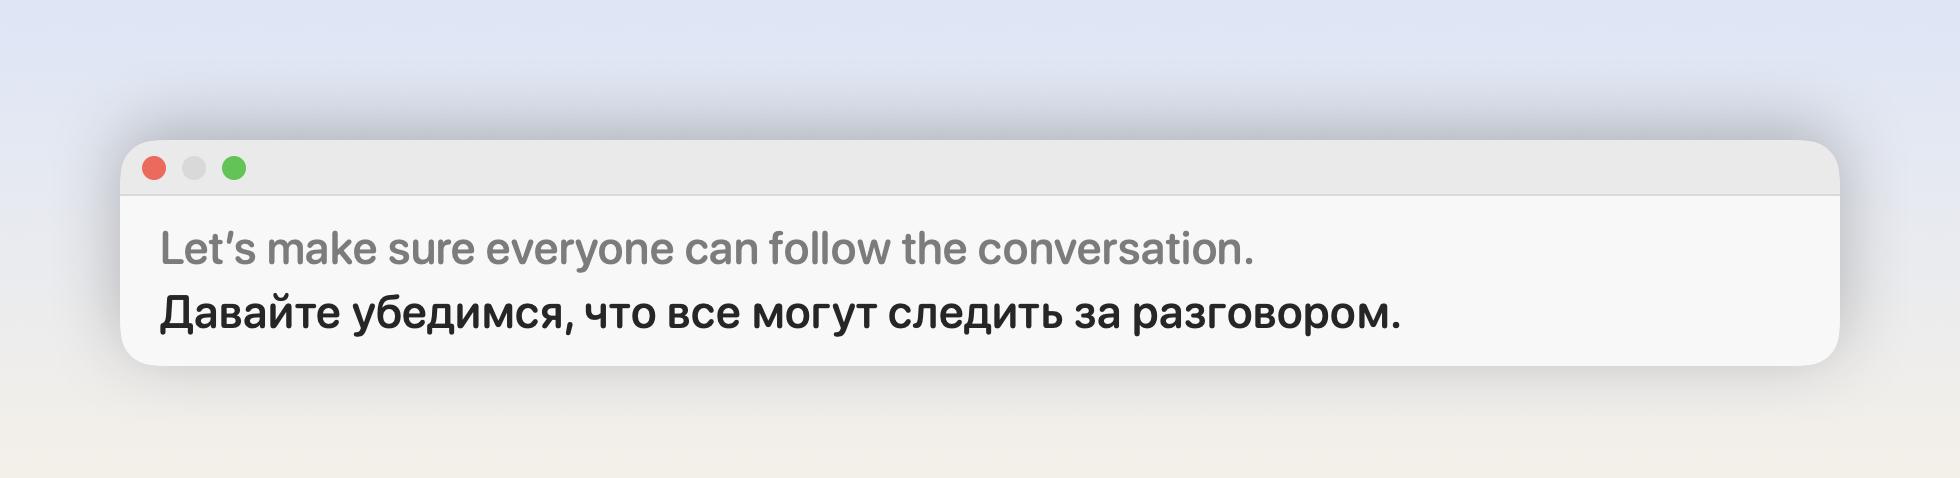
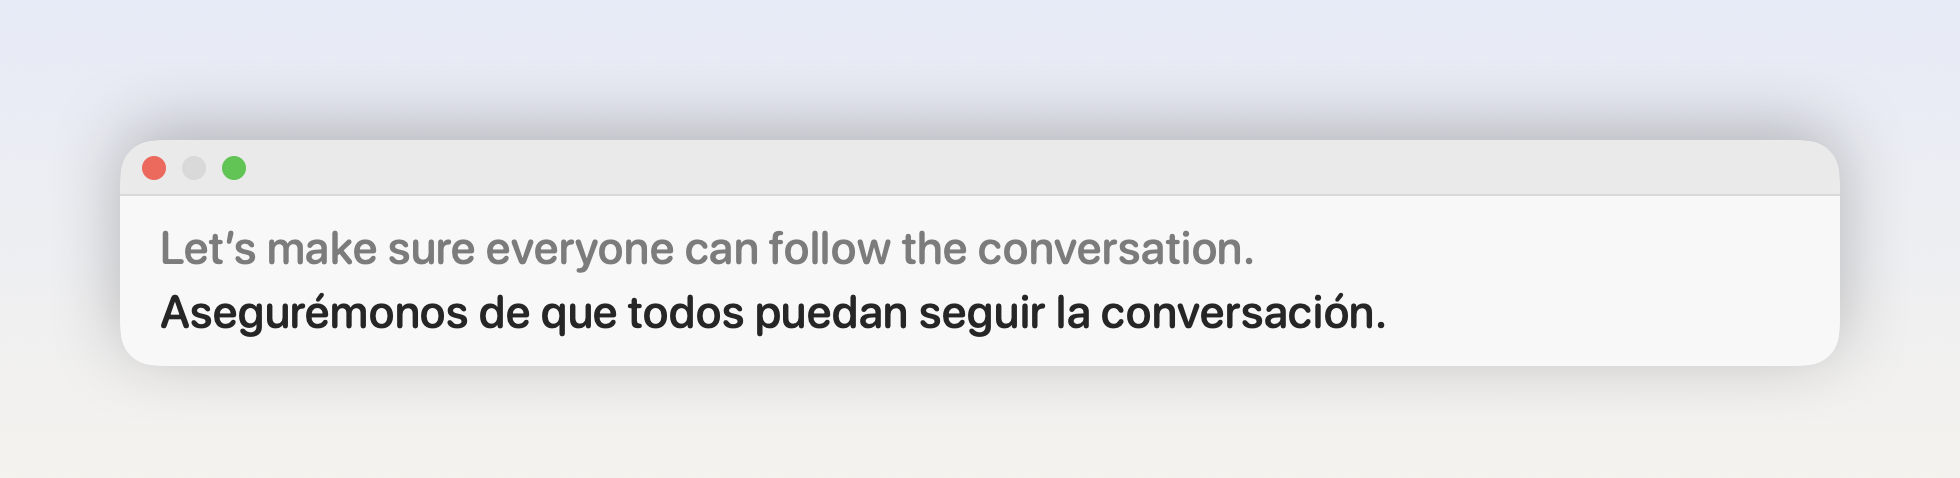
Use Spanish in the repository screenshots
Render the hero, history panel and social preview with Spanish translations while retaining the English source lines and blue branding. Share the preview captions and add a reproducible repository-image export command.

Changed region(s): [[0.0622, 0.6151, 0.7158, 0.7029]]

diff --git a/Sources/BilbyPreview/Preview.swift b/Sources/BilbyPreview/Preview.swift
@@ -6,6 +6,7 @@ import SwiftUI
 
 /// `swift run BilbyPreview` checks the mark at actual menu-bar sizes.
 /// Add `--output <directory>` for light/dark PNGs and every onboarding scene.
+/// Add `--repo-assets` to export just the README and social-preview images.
 @main
 struct Preview {
     @MainActor
@@ -26,6 +27,11 @@ struct Preview {
         let directory = URL(fileURLWithPath: CommandLine.arguments[flag + 1], isDirectory: true)
         try FileManager.default.createDirectory(at: directory, withIntermediateDirectories: true)
         _ = NSApplication.shared
+        if CommandLine.arguments.contains("--repo-assets") {
+            try RepositoryImages.write(to: directory)
+            print("Wrote repository images to \(directory.path)")
+            return
+        }
         try save(MarkSheet(), to: directory.appendingPathComponent("bilby-mark.png"))
         for scheme in [ColorScheme.light, .dark] {
             let appearance = scheme == .light ? "light" : "dark"
@@ -39,10 +45,10 @@ struct Preview {
                 checkAudio: { .granted }, openSettings: {}, startListening: {},
                 loadLanguages: {
                     [
-                        .init(code: "ru", name: "Russian", isInstalled: false),
+                        .init(code: "es", name: "Spanish", isInstalled: false),
                         .init(code: "fr", name: "French", isInstalled: true),
                     ]
-                }
+                }, selectedLanguageCode: "es"
             )
             try snap(model, "welcome")
             model.advance()
@@ -73,39 +79,18 @@ struct Preview {
             model.update(readiness: .preparing(0.4))
             try snap(model, "tryIt-loading")
             model.update(
-                readiness: .failed("Speech recognition needs a one-time download. Connect to the internet and try again."))
+                readiness: .failed(
+                    "Speech recognition needs a one-time download. Connect to the internet and try again."))
             try snap(model, "tryIt-failed")
             model.update(readiness: .ready)
-            model.show(
-                "Let’s make sure everyone can follow the conversation.",
-                "Давайте убедимся, что все могут следить за разговором.")
+            model.show(PreviewCaptions.source, PreviewCaptions.translation)
             try snap(model, "caption")
             model.stopWatching()
         }
         // The history panel's content, with a session's worth of sentences.
         for scheme in [ColorScheme.light, .dark] {
             let appearance = scheme == .light ? "light" : "dark"
-            let model = CaptionModel()
-            var engine = CaptionEngine()
-            let script = [
-                (
-                    "So let's circle back on the runway before we commit to Q3.",
-                    "Итак, давайте вернёмся к запасу денег, прежде чем брать обязательства по третьему кварталу."
-                ),
-                (
-                    "Burn is up eighteen percent quarter over quarter.",
-                    "Расходы выросли на восемнадцать процентов по сравнению с прошлым кварталом."
-                ),
-                ("Two senior hires are pending offer.", "Два старших специалиста ждут оффера."),
-            ]
-            for (source, translation) in script {
-                for event in engine.consume(Utterance(source, isFinal: true)) { model.apply(event) }
-                if let line = model.latest {
-                    for event in engine.resolve(line.id, translation: translation) { model.apply(event) }
-                }
-            }
-            model.apply(.live("And the bridge round term sheet"))
-            model.apply(.draft("И условия промежуточного раунда"))
+            let model = PreviewCaptions.history()
             let view = HistoryView(model: model, perform: { _ in })
                 .frame(width: 380, height: 520)
                 .environment(\.colorScheme, scheme)
@@ -147,7 +132,7 @@ struct Preview {
     }
 
     @MainActor
-    private static func save(_ view: some View, to url: URL) throws {
+    static func save(_ view: some View, to url: URL) throws {
         // ImageRenderer omits AppKit-backed controls such as the language
         // picker. Capture the actual hosting view, including those controls.
         let host = NSHostingView(rootView: view)

diff --git a/Sources/BilbyPreview/RepositoryImages.swift b/Sources/BilbyPreview/RepositoryImages.swift
@@ -1,0 +1,95 @@
+import BilbyCore
+import BilbyUI
+import SwiftUI
+
+/// The same Spanish examples feed both the app previews and repository art,
+/// so regenerating one cannot silently bring back a different language.
+@MainActor
+enum PreviewCaptions {
+    static let source = "Let’s make sure everyone can follow the conversation."
+    static let translation = "Asegurémonos de que todos puedan seguir la conversación."
+
+    static func caption() -> CaptionModel {
+        translated([(source, translation)])
+    }
+
+    static func history() -> CaptionModel {
+        let model = translated([
+            (
+                "So let's circle back on the runway before we commit to Q3.",
+                "Volvamos a revisar cuánto nos durará la caja antes de comprometernos para el tercer trimestre."
+            ),
+            (
+                "Burn is up eighteen percent quarter over quarter.",
+                "El consumo de caja aumentó un dieciocho por ciento respecto al trimestre anterior."
+            ),
+            ("Two senior hires are pending offer.", "Falta enviar las ofertas a dos candidatos sénior."),
+        ])
+        model.apply(.live("And the bridge round term sheet"))
+        model.apply(.draft("Y la hoja de términos de la ronda puente"))
+        return model
+    }
+
+    private static func translated(_ lines: [(String, String)]) -> CaptionModel {
+        let model = CaptionModel()
+        var engine = CaptionEngine()
+        for (source, translation) in lines {
+            for event in engine.consume(Utterance(source, isFinal: true)) { model.apply(event) }
+            if let line = model.latest {
+                for event in engine.resolve(line.id, translation: translation) { model.apply(event) }
+            }
+        }
+        return model
+    }
+}
+
+/// Repository images are renders of the real caption views and app icon.
+/// Keep their framing here so the next text change is reproducible too.
+@MainActor
+enum RepositoryImages {
+    static func write(to directory: URL) throws {
+        for scheme in [ColorScheme.light, .dark] {
+            let appearance = scheme == .light ? "light" : "dark"
+            let hero = CaptionBar(model: PreviewCaptions.caption(), perform: { _ in })
+                .frame(width: 860)
+                .offset(y: 7)
+                .frame(width: 980, height: 239)
+                .background(backdrop(scheme))
+                .environment(\.colorScheme, scheme)
+            try Preview.save(hero, to: directory.appendingPathComponent("hero-\(appearance).png"))
+
+            let history = HistoryView(model: PreviewCaptions.history(), perform: { _ in })
+                .frame(width: 380, height: 520)
+                .environment(\.colorScheme, scheme)
+            try Preview.save(history, to: directory.appendingPathComponent("history-\(appearance).png"))
+        }
+
+        let social = VStack(spacing: 34) {
+            HStack(spacing: 26) {
+                Image(nsImage: Icon.image(side: 150))
+                    .frame(width: 150, height: 150)
+                VStack(alignment: .leading, spacing: 12) {
+                    Text("Bilby")
+                        .font(.system(size: 76, weight: .bold, design: .rounded))
+                    Text("Live captions and translation for any audio on your Mac")
+                        .font(.system(size: 28, weight: .medium, design: .rounded))
+                        .foregroundStyle(.secondary)
+                }
+            }
+            CaptionBar(model: PreviewCaptions.caption(), perform: { _ in })
+                .frame(width: 980)
+        }
+        .frame(width: 1280, height: 640)
+        .background(backdrop(.dark))
+        .environment(\.colorScheme, .dark)
+        try Preview.save(social, to: directory.appendingPathComponent("social-preview.png"))
+    }
+
+    private static func backdrop(_ scheme: ColorScheme) -> LinearGradient {
+        LinearGradient(
+            colors: scheme == .light
+                ? [Color(red: 0.90, green: 0.92, blue: 0.97), Color(red: 0.96, green: 0.95, blue: 0.93)]
+                : [Color(red: 0.18, green: 0.19, blue: 0.30), Color(red: 0.05, green: 0.05, blue: 0.09)],
+            startPoint: .top, endPoint: .bottom)
+    }
+}

diff --git a/README.md b/README.md
@@ -23,7 +23,7 @@
 
 <picture>
   <source media="(prefers-color-scheme: dark)" srcset="docs/assets/hero-dark.png">
-  <img alt="Bilby's caption bar: an English sentence, dimmed, above its Russian translation" src="docs/assets/hero-light.png">
+  <img alt="Bilby's caption bar: an English sentence, dimmed, above its Spanish translation" src="docs/assets/hero-light.png">
 </picture>
 
 ## Why it exists
@@ -51,7 +51,7 @@ bar for those — and for a video, a podcast, or anything else your Mac plays.
 <p align="center">
   <picture>
     <source media="(prefers-color-scheme: dark)" srcset="docs/assets/history-dark.png">
-    <img alt="The session column: each English sentence, dimmed, above its Russian translation, with the sentence being spoken at the bottom" src="docs/assets/history-light.png" width="380">
+    <img alt="The session column: each English sentence, dimmed, above its Spanish translation, with the sentence being spoken at the bottom" src="docs/assets/history-light.png" width="380">
   </picture>
 </p>
 
@@ -133,6 +133,7 @@ With Xcode 26 on an Apple silicon Mac:
 ./Scripts/make-app.sh           # ~/Applications/Bilby.app, debug
 ./Scripts/release.sh            # .build/Bilby.dmg: release build, checked, ad-hoc signed
 swift run BilbyPreview --output .build/previews   # every setup scene, both appearances
+swift run BilbyPreview --repo-assets --output docs/assets   # README images and social preview
 ```
 
 `check.sh` builds in release on purpose: strict concurrency finds races under
